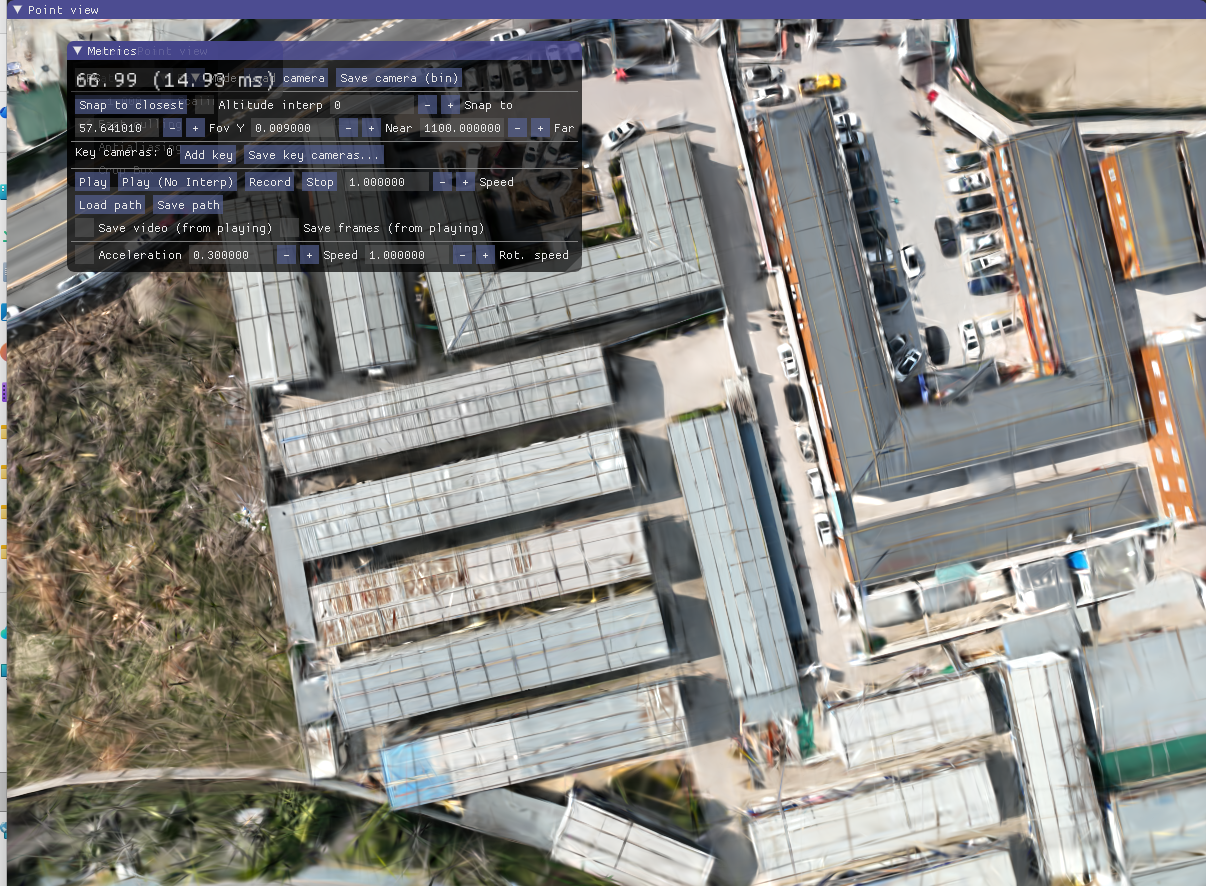
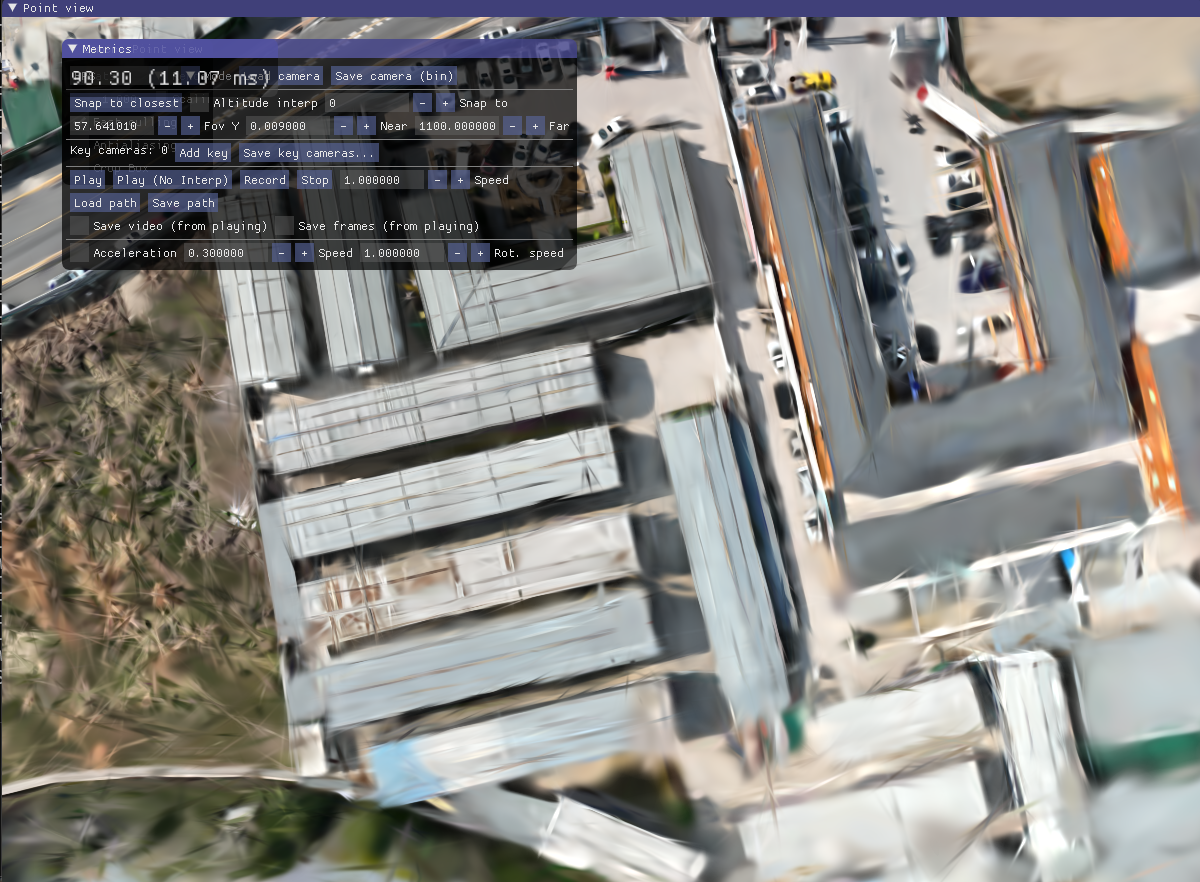
Update 3DGS subway pit image and sync homepage text

diff --git a/index.html b/index.html
@@ -294,7 +294,7 @@ img{max-width:100%;display:block}
 
   <section id="about" class="section">
     <h2 class="section-title">About</h2>
-    <p class="about-intro">你好！我是刘新慈，华东交通大学智能建造专业本科生，学习成绩排名 1/42（GPA 4.21/5.0）。探索计算机图形学、三维视觉与智能建造的交叉方向，希望通过科研与实践为工程建设行业的数字化与智能化转型贡献力量。</p>
+    <p class="about-intro">你好！我是刘新慈，华东交通大学智能建造专业本科生，学习成绩排名 1/42（GPA 4.21/5.0）。热衷于探索计算机图形学、三维视觉与智能建造的交叉方向，希望通过科研与实践为工程建设行业的数字化与智能化转型贡献力量。</p>
     <p class="about-intro">现担任班级学习委员、团支部副书记、学院辅导员及创新创业学院助理，具备良好沟通协作与执行力。</p>
     <h3 style="font-size:.95rem;font-weight:700;color:#111;margin:18px 0 8px">Education</h3>
     <div class="edu-block">
@@ -532,7 +532,7 @@ img{max-width:100%;display:block}
 
   <section id="misc" class="section">
     <h2 class="section-title">Miscellaneous</h2>
-    <p class="misc-text">我喜欢探索新事物，享受在未知领域学习的过程。闲暇时爱听各类音乐、看电影，也是羽毛球的忠实爱好者。</p>
+    <p class="misc-text">我喜欢探索新事物，享受在未知领域学习的过程，始终积极向上。闲暇时爱听各类音乐、看电影，也是羽毛球的忠实爱好者。</p>
     <div class="interest-tags">
       <span class="interest-tag">探索新事物</span>
       <span class="interest-tag">音乐</span>